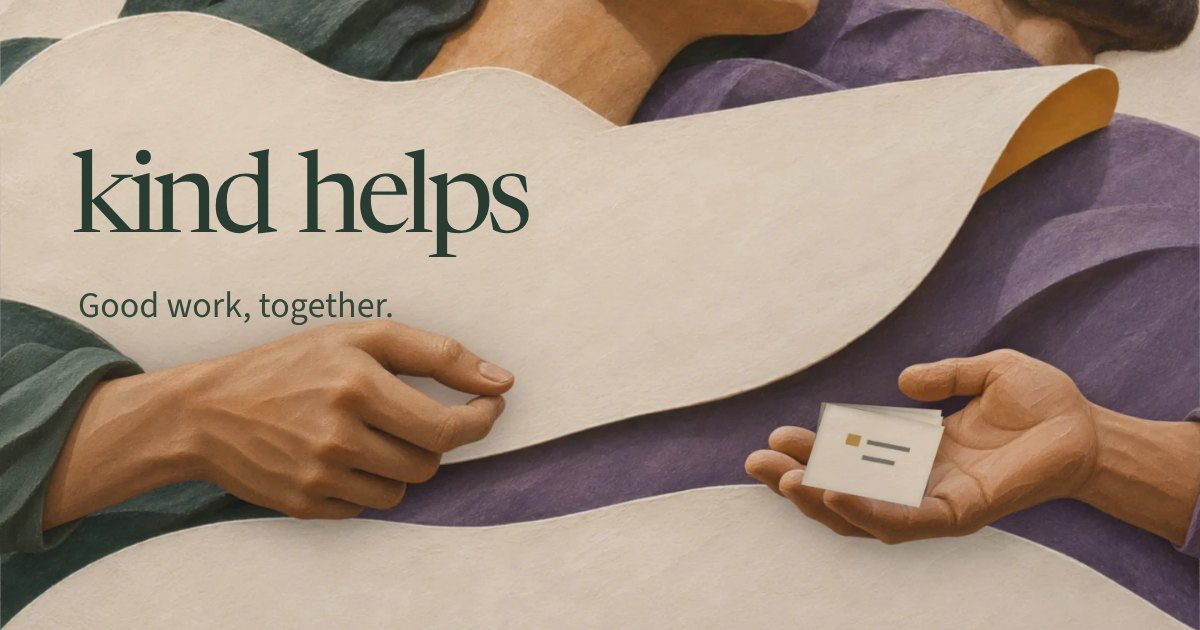
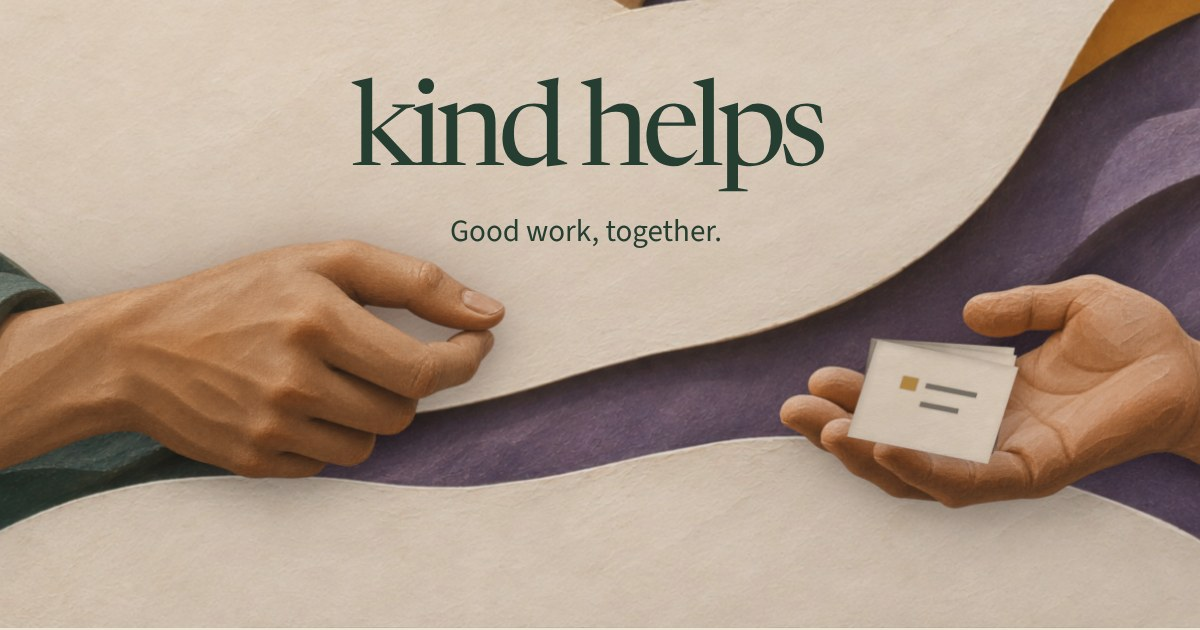
A shared link shows the name whole in every crop and no face is cut; every public page carries the picture
Claude-Session: https://claude.ai/code/session_01Cry6yh62xBmsVhf1J4Uj4e

diff --git a/src/app/layout.tsx b/src/app/layout.tsx
@@ -4,6 +4,7 @@ import "../../public/fonts/fonts.css";
 import { SerwistProvider } from "@serwist/turbopack/react";
 import { OfflineWorker } from "@/components/offline-worker";
 import { launchScreens } from "@/lib/launch-screens";
+import { linkPreview } from "@/lib/link-preview";
 import { firstLanguage } from "@/lib/first-language";
 export const viewport: Viewport = {
   colorScheme: "light",
@@ -17,12 +18,10 @@ export const metadata: Metadata = {
   description:
     "Kind Helps keeps a conference’s help line, home visits, ledger and yearly report in one place, with the volunteers who do the work. Free for every conference.",
   openGraph: {
-    type: "website",
-    siteName: "Kind Helps",
+    ...linkPreview,
     url: "/",
     title: "Kind Helps — Good work, together.",
     description: "The help line, home visits in pairs, the ledger and the yearly report, with the volunteers who do the work. Free for every conference.",
-    images: [{ url: "/assets/link-preview.jpg", width: 1200, height: 630, alt: "Two hands in layered paper relief, a small card resting in the open palm, and the words kind helps." }],
   },
   twitter: { card: "summary_large_image", images: ["/assets/link-preview.jpg"] },
   appleWebApp: {

diff --git a/src/lib/link-preview.ts b/src/lib/link-preview.ts
@@ -1,0 +1,13 @@
+import type { Metadata } from "next";
+
+/**
+ * What a shared link shows, on every public page. A page that sets its own title and description for the preview
+ * replaces the whole block, so each takes the picture and the site's name from here and none goes out without them.
+ * The picture is cut from the home page's closing painting below the two faces, with the name inside its middle
+ * square, so the wide crop and a chat app's square crop both show the name whole and neither crosses a face.
+ */
+export const linkPreview = {
+  type: "website",
+  siteName: "Kind Helps",
+  images: [{ url: "/assets/link-preview.jpg", width: 1200, height: 630, alt: "Two hands in layered paper relief, one passing a small card to the open palm of the other, under the words kind helps. Good work, together." }],
+} satisfies Metadata["openGraph"];

diff --git a/src/app/privacy/page.tsx b/src/app/privacy/page.tsx
@@ -1,3 +1,4 @@
+import { linkPreview } from "@/lib/link-preview";
 import type { Metadata } from "next";
 import Link from "next/link";
 import { ArrowUpRight } from "lucide-react";
@@ -8,7 +9,7 @@ export const metadata: Metadata = {
   title: "Privacy — Kind Helps",
   description: "What a conference keeps in Kind Helps, who can see it, what the assistant is sent, and how a record, a person or a whole conference is removed.",
   alternates: { canonical: "/privacy" },
-  openGraph: { url: "/privacy", title: "Privacy — Kind Helps", description: "What a conference keeps in Kind Helps, who can see it, and how it is removed." },
+  openGraph: { ...linkPreview, url: "/privacy", title: "Privacy — Kind Helps", description: "What a conference keeps in Kind Helps, who can see it, and how it is removed." },
 };
 
 export default function Privacy() {
